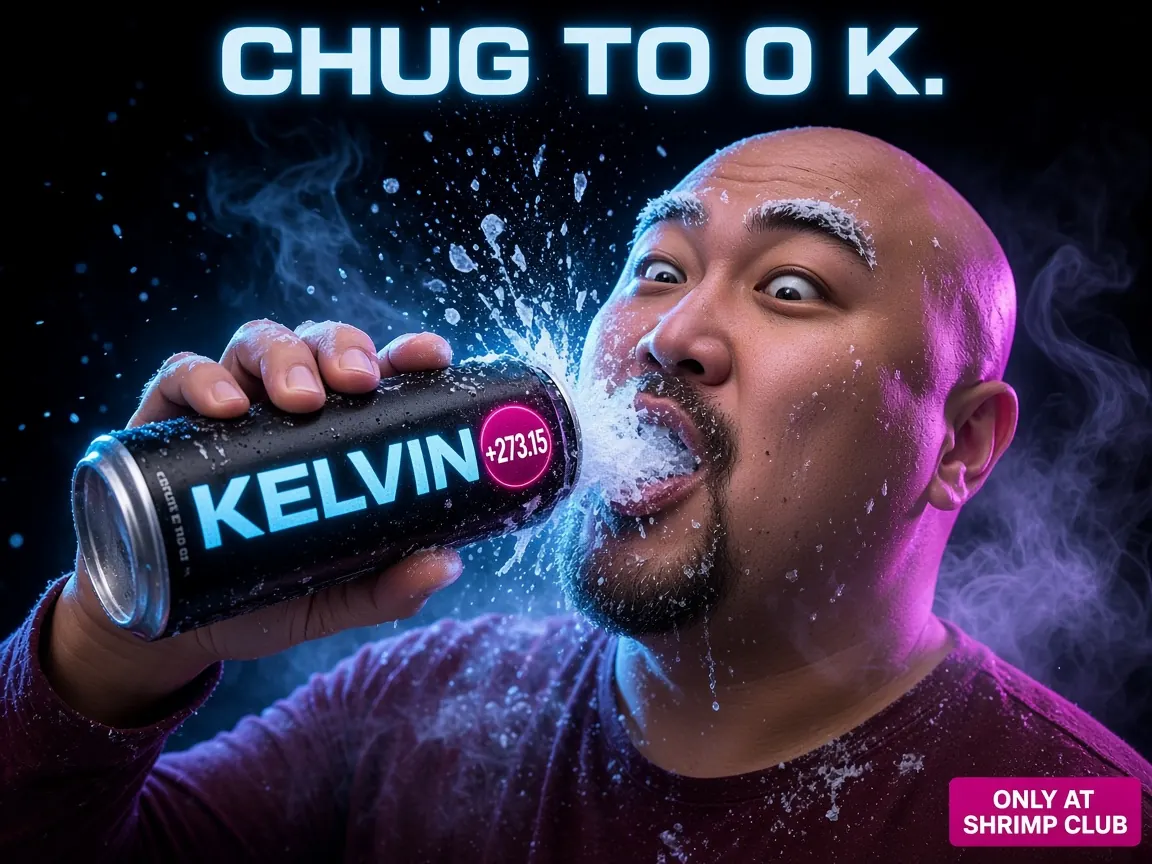
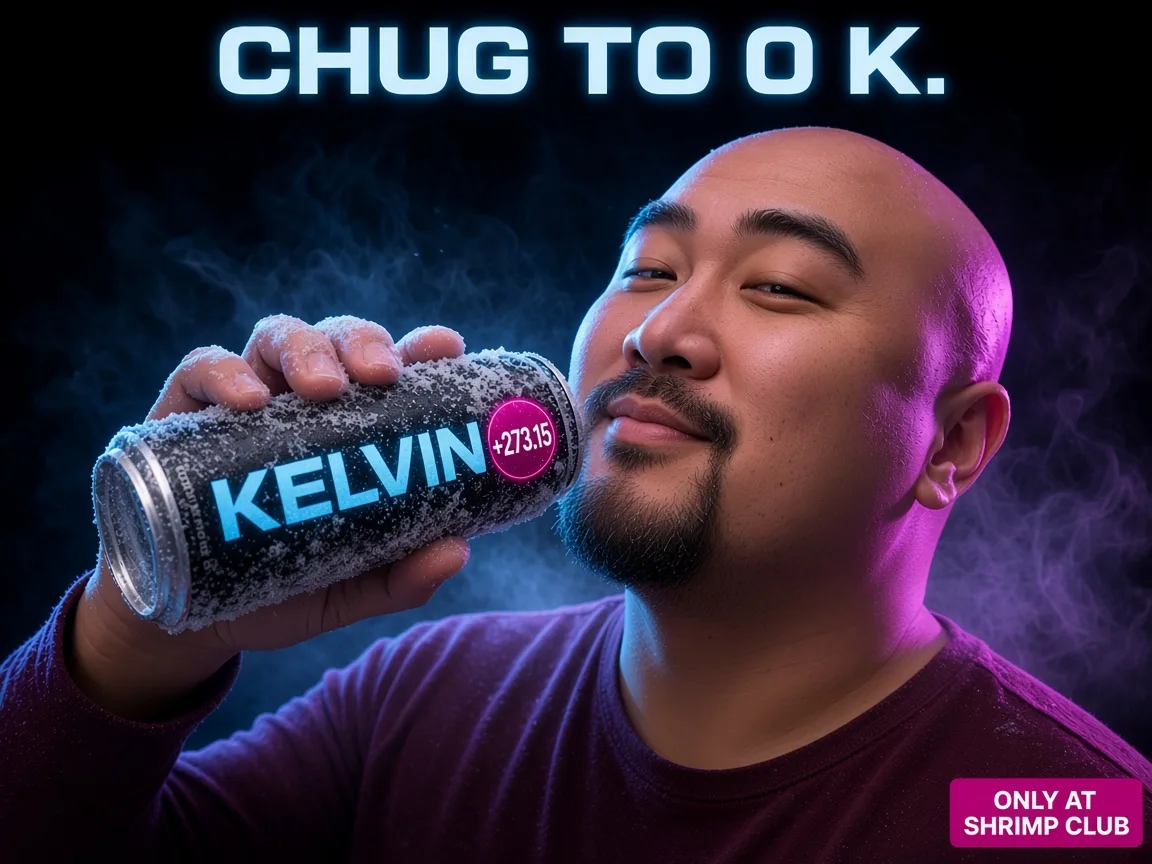
Swap chugging ad for calmer sip shot

diff --git a/src/app/page.tsx b/src/app/page.tsx
@@ -35,7 +35,7 @@ const POSTERS = [
     src: '/campaign/louie-chugging.webp',
     width: 1152,
     height: 864,
-    alt: 'King Louie with frost on his face as a Kelvin can sprays. The line reads Chug to 0 K.',
+    alt: 'King Louie taking a cool sip of Kelvin. The line reads Chug to 0 K.',
     caption: 'Chug to 0 K.',
   },
   {
